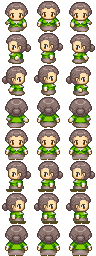
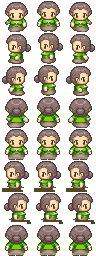
IMP: Refresh NPC art, item art, chat focus and quest panel
- NPCs: seated right-facing frames for rilla and rowan, legs and head turned
- Badge icons: all nine replaced with game-icons.net glyphs on the dark chip
- Item art: one 64px icon per catalog item; Inventory/items.ts mirrors the
  game catalog's stats and feeds tooltips through statsText
- Chat: input focus moved to an effect keyed on the open NPC, since onMount
  runs at app start before any NPC is opened
- Quest tracker: 224px wide, 10px type, hairline progress bars
- Shop: detail line carries attack and the reroll range
- tests: inventory locale mock covers the keys the new import chain reads

Changed region(s): [[0.0, 0.625, 0.3438, 0.875], [0.6875, 0.625, 1.0, 0.875], [0.3438, 0.625, 0.6562, 0.875]]

diff --git a/play/src/front/Components/Inventory/items.ts b/play/src/front/Components/Inventory/items.ts
@@ -5,6 +5,9 @@ export interface ItemDef {
     /** Where the item sits on the character; materials have no slot. */
     slot?: EquipSlot;
     icon: string;
+    /** Gear only: attack contribution and reroll ceiling for Moss. */
+    attack?: number;
+    rollMax?: number;
     /** Consumed from the bag with a click instead of worn. */
     potion?: boolean;
 }
@@ -22,26 +25,45 @@ export const EQUIP_SLOTS: { slot: EquipSlot; icon: string }[] = [
 const ITEMS: Record<string, ItemDef> = {
     gold: { name: "Gold", icon: "item_gold" },
     coin: { name: "Gold", icon: "item_gold" },
-    sword: { name: "Iron sword", slot: "weapon", icon: "item_sword" },
-    iron_sword: { name: "Iron sword", slot: "weapon", icon: "item_sword" },
-    helmet: { name: "Iron helm", slot: "head", icon: "item_helmet" },
-    helm: { name: "Iron helm", slot: "head", icon: "item_helmet" },
-    armor: { name: "Chainmail", slot: "chest", icon: "item_armor" },
-    chainmail: { name: "Chainmail", slot: "chest", icon: "item_armor" },
-    boots: { name: "Leather boots", slot: "feet", icon: "item_boots" },
-    ring: { name: "Copper ring", slot: "ring", icon: "item_ring" },
-    gloves: { name: "Leather gloves", slot: "hands", icon: "item_gloves" },
+    // Catalog mirrors workadventure-game/src/items.ts — ids, names and stats must match.
+    rusty_sword: { name: "Rusty Sword", slot: "weapon", attack: 2, rollMax: 1, icon: "rusty_sword" },
+    iron_sword: { name: "Iron Sword", slot: "weapon", attack: 5, rollMax: 3, icon: "iron_sword" },
+    oak_staff: { name: "Oak Staff", slot: "weapon", attack: 4, rollMax: 2, icon: "oak_staff" },
+    leather_cap: { name: "Leather Cap", slot: "head", attack: 1, rollMax: 1, icon: "leather_cap" },
+    iron_helm: { name: "Iron Helm", slot: "head", attack: 3, rollMax: 2, icon: "iron_helm" },
+    cloth_robe: { name: "Cloth Robe", slot: "chest", attack: 2, rollMax: 1, icon: "cloth_robe" },
+    chainmail: { name: "Chainmail", slot: "chest", attack: 5, rollMax: 3, icon: "chainmail" },
+    work_gloves: { name: "Work Gloves", slot: "hands", attack: 1, rollMax: 1, icon: "work_gloves" },
+    boots: { name: "Trail Boots", slot: "feet", attack: 1, rollMax: 1, icon: "boots" },
+    copper_ring: { name: "Copper Ring", slot: "ring", attack: 1, rollMax: 1, icon: "copper_ring" },
+    flame_blade: { name: "Flame Blade", slot: "weapon", attack: 9, rollMax: 5, icon: "flame_blade" },
+    guardian_plate: { name: "Guardian Plate", slot: "chest", attack: 8, rollMax: 4, icon: "guardian_plate" },
+    lucky_charm: { name: "Lucky Charm", slot: "ring", attack: 4, rollMax: 3, icon: "lucky_charm" },
+    swift_flask: { name: "Swift Flask", icon: "swift_flask", potion: true },
+    fortune_tonic: { name: "Fortune Tonic", icon: "fortune_tonic", potion: true },
+    gold_draught: { name: "Gold Draught", icon: "gold_draught", potion: true },
+    // Legacy drop keys still in circulation from earlier batches.
+    sword: { name: "Iron sword", slot: "weapon", attack: 5, rollMax: 3, icon: "iron_sword" },
+    helmet: { name: "Iron helm", slot: "head", attack: 3, rollMax: 2, icon: "iron_helm" },
+    helm: { name: "Iron helm", slot: "head", attack: 3, rollMax: 2, icon: "iron_helm" },
+    armor: { name: "Chainmail", slot: "chest", attack: 5, rollMax: 3, icon: "chainmail" },
+    ring: { name: "Copper ring", slot: "ring", attack: 1, rollMax: 1, icon: "copper_ring" },
+    gloves: { name: "Leather gloves", slot: "hands", attack: 1, rollMax: 1, icon: "work_gloves" },
     potion: { name: "Health potion", icon: "item_potion", potion: true },
     health_potion: { name: "Health potion", icon: "item_potion", potion: true },
-    swift_flask: { name: "Swift Flask", icon: "item_potion", potion: true },
-    fortune_tonic: { name: "Fortune Tonic", icon: "item_potion", potion: true },
-    gold_draught: { name: "Gold Draught", icon: "item_potion", potion: true },
     gem: { name: "Blue gem", icon: "item_gem" },
     crystal: { name: "Blue gem", icon: "item_gem" },
     goo: { name: "Slime goo", icon: "item_goo" },
     slime: { name: "Slime goo", icon: "item_goo" },
     slime_gel: { name: "Slime goo", icon: "item_goo" },
 };
+
+/** Tooltip line: "Iron Sword — ATK 5, bonus +0-3". */
+export function statsText(def: ItemDef): string {
+    if (def.attack === undefined) return def.name;
+    const bonus = def.rollMax !== undefined ? `, bonus +0-${def.rollMax}` : "";
+    return `${def.name} — ATK ${def.attack}${bonus}`;
+}
 
 function prettify(key: string): string {
     const words = key.replace(/[_-]+/g, " ").trim();

diff --git a/play/src/front/Components/GamePanel/GamePanel.svelte b/play/src/front/Components/GamePanel/GamePanel.svelte
@@ -28,10 +28,10 @@
 
 <div
     data-testid="game-panel"
-    class="pointer-events-auto fixed right-3 top-24 z-[250] w-[252px] max-w-[86vw] rounded-md border border-white/15 bg-contrast/95 text-white shadow-[0_0_0_1px_rgba(0,0,0,.45),0_10px_30px_rgba(0,0,0,.5)] backdrop-blur-md"
+    class="pointer-events-auto fixed right-3 top-24 z-[250] w-[224px] max-w-[86vw] rounded-md border border-white/15 bg-contrast/95 text-white shadow-[0_0_0_1px_rgba(0,0,0,.45),0_10px_30px_rgba(0,0,0,.5)] backdrop-blur-md"
 >
     <header
-        class="flex items-center gap-2 bg-black/25 px-3 py-2 {expanded
+        class="flex items-center gap-1.5 bg-black/25 px-2 py-1 {expanded
             ? 'rounded-t-md border-b border-white/10'
             : 'rounded-md'}"
     >
@@ -39,7 +39,7 @@
             <!-- Icon markup comes from the fixed npcRoleIcons table, never from user input. -->
             {@html npcRoleIconHtml("quill")}<!-- eslint-disable-line svelte/no-at-html-tags -->
         </span>
-        <span class="flex-1 truncate font-mono text-xs font-bold uppercase tracking-widest text-pop-yellow"
+        <span class="flex-1 truncate font-mono text-[10px] font-bold uppercase tracking-widest text-pop-yellow"
             >{$LL.gamePanel.title()}</span
         >
         <button
@@ -53,7 +53,7 @@
     </header>
 
     {#if expanded}
-        <div class="max-h-[60vh] overflow-y-auto p-2 no-scroll-bar">
+        <div class="max-h-[50vh] overflow-y-auto p-1.5 no-scroll-bar">
             {#if $questsStore.loading}
                 <p class="px-1 py-2 text-xs italic text-white/50">{$LL.gamePanel.loading()}</p>
             {:else if $questsStore.error}
@@ -63,28 +63,28 @@
             {:else}
                 {#each orderedQuests as quest (quest.assignmentId)}
                     <div
-                        class="mb-1.5 rounded-md border px-2 py-1.5 last:mb-0 {quest.status === 'completed'
+                        class="mb-1 rounded border px-1.5 py-1 leading-tight last:mb-0 {quest.status === 'completed'
                             ? 'border-emerald-400/40 bg-emerald-400/10'
                             : 'border-white/10 bg-white/5'}"
                     >
-                        <div class="flex items-center gap-2">
-                            <span class="flex-1 truncate text-[11px] font-medium">{quest.title}</span>
+                        <div class="flex items-center gap-1.5">
+                            <span class="flex-1 truncate text-[10px] font-medium">{quest.title}</span>
                             {#if quest.status === "completed"}
                                 <button
                                     type="button"
-                                    class="rounded border border-pop-yellow/60 bg-pop-yellow/20 px-1.5 py-0.5 font-mono text-[10px] font-bold text-pop-yellow hover:bg-pop-yellow/35"
+                                    class="rounded border border-pop-yellow/60 bg-pop-yellow/20 px-1 py-0.5 font-mono text-[9px] font-bold text-pop-yellow hover:bg-pop-yellow/35"
                                     onclick={() => claim(claimQuest(quest.assignmentId))}
                                 >
                                     {$LL.gamePanel.claim()}
                                 </button>
                             {:else}
-                                <span class="text-[10px] text-white/60"
+                                <span class="text-[9px] text-white/60"
                                     >{Math.min(quest.progress, quest.count)}/{quest.count}</span
                                 >
                             {/if}
                         </div>
                         {#if quest.status !== "completed"}
-                            <div class="mt-1 h-1 overflow-hidden rounded bg-white/10">
+                            <div class="mt-0.5 h-0.5 overflow-hidden rounded bg-white/10">
                                 <div
                                     class="h-full bg-gradient-to-r from-primary to-pop-yellow"
                                     style="width: {Math.min(100, (quest.progress / Math.max(1, quest.count)) * 100)}%"

diff --git a/play/src/front/Components/Inventory/Inventory.svelte b/play/src/front/Components/Inventory/Inventory.svelte
@@ -3,7 +3,7 @@
     import { equippedStore, equipItem, inventoryItemsStore, unequipSlot } from "../../Stores/InventoryStore";
     import { loadEquipment, refreshInventory, saveEquipment } from "../../Services/InventoryLoader";
     import { usePotion } from "../../Services/shop";
-    import { EQUIP_SLOTS, iconUrl, itemDef, type EquipSlot } from "./items";
+    import { EQUIP_SLOTS, iconUrl, itemDef, statsText, type EquipSlot } from "./items";
     import { IconRefresh, IconUser } from "@wa-icons";
 
     $effect(() => {
@@ -66,8 +66,8 @@
         {#if wornKey}
             <button
                 type="button"
-                title={itemDef(wornKey).name}
-                aria-label={itemDef(wornKey).name}
+                title={statsText(itemDef(wornKey))}
+                aria-label={statsText(itemDef(wornKey))}
                 data-testid="slot-{slot}"
                 class="flex h-11 w-11 items-center justify-center rounded-md border border-light-blue/60 bg-white/5 hover:border-danger-600/70"
                 onclick={() => onSlotClick(slot)}
@@ -114,7 +114,7 @@
                             type="button"
                             title={itemDef(entry.item).potion
                                 ? `${itemDef(entry.item).name} — ${$LL.shop.use()}`
-                                : itemDef(entry.item).name}
+                                : statsText(itemDef(entry.item))}
                             aria-label="{itemDef(entry.item).name} × {entry.qty}"
                             data-testid="bag-{entry.item}"
                             class="relative aspect-square rounded-sm border border-white/15 bg-contrast/70 transition-colors hover:border-light-blue/70"

diff --git a/play/src/front/Components/Inventory/items.test.ts b/play/src/front/Components/Inventory/items.test.ts
@@ -1,0 +1,47 @@
+import { describe, expect, it } from "vitest";
+import { iconUrl, itemDef, statsText } from "./items";
+
+// Mirrors workadventure-game/src/items.ts — ids the shop and drops actually use.
+const CATALOG_IDS = [
+    "rusty_sword",
+    "iron_sword",
+    "oak_staff",
+    "leather_cap",
+    "iron_helm",
+    "cloth_robe",
+    "chainmail",
+    "work_gloves",
+    "boots",
+    "copper_ring",
+    "flame_blade",
+    "guardian_plate",
+    "lucky_charm",
+    "swift_flask",
+    "fortune_tonic",
+    "gold_draught",
+];
+
+describe("itemDef", () => {
+    it("resolves every catalog id with stats and art", () => {
+        for (const id of CATALOG_IDS) {
+            const def = itemDef(id);
+            expect(def.name, id).not.toBe(id);
+            expect(iconUrl(def.icon)).toBe(`/static/images/items/${def.icon}.png`);
+            if (def.slot) {
+                expect(def.attack, id).toBeGreaterThan(0);
+                expect(def.rollMax, id).toBeGreaterThan(0);
+            } else {
+                expect(def.potion, id).toBe(true);
+            }
+        }
+    });
+
+    it("lists the attack and reroll bonus in the tooltip", () => {
+        expect(statsText(itemDef("iron_sword"))).toBe("Iron Sword — ATK 5, bonus +0-3");
+        expect(statsText(itemDef("gold_draught"))).toBe("Gold Draught");
+    });
+
+    it("falls back to a bag icon for unknown drop keys", () => {
+        expect(itemDef("mystery_item").icon).toBe("item_bag");
+    });
+});

diff --git a/play/src/front/Components/NpcChat/NpcChatPanel.svelte b/play/src/front/Components/NpcChat/NpcChatPanel.svelte
@@ -15,9 +15,20 @@
     let logElement: HTMLDivElement | undefined = $state();
     let inputElement: HTMLInputElement | undefined = $state();
 
-    onMount(() => {
-        playSfx("ding");
-        queueMicrotask(() => inputElement?.focus());
+    onMount(() => playSfx("ding"));
+
+    // The panel lives inside an {#if}, so onMount runs at app start, not when an NPC opens —
+    // focus from an effect keyed on the open NPC, and again shortly after, because the
+    // Phaser canvas can grab focus while the modal mounts.
+    $effect(() => {
+        if (!$npcChatStore.npc || !inputElement) return;
+        const el = inputElement;
+        const raf = requestAnimationFrame(() => el.focus({ preventScroll: true }));
+        const timer = window.setTimeout(() => el.focus({ preventScroll: true }), 150);
+        return () => {
+            cancelAnimationFrame(raf);
+            window.clearTimeout(timer);
+        };
     });
 
     // Both arguments are reactive reads: the effect re-runs when a message lands or a reply is pending.

diff --git a/play/tests/front/Components/Inventory/Inventory.svelte.test.ts b/play/tests/front/Components/Inventory/Inventory.svelte.test.ts
@@ -22,6 +22,10 @@ vi.mock("../../../../src/i18n/i18n-svelte", () => {
                 refresh: () => "Refresh inventory",
             },
         },
+        // Services/shop pulls adminFetch → gameManager → ScreenSharingStore, which
+        // reads this key while the module loads.
+        camera: { my: { nameTag: () => "Me" } },
+        shop: { use: () => "Use" },
     };
     return { default: readable(locale), locale: readable("en-US"), setLocale: () => undefined };
 });

diff --git a/play/src/front/Components/NpcChat/ShopPanel.svelte b/play/src/front/Components/NpcChat/ShopPanel.svelte
@@ -74,7 +74,8 @@
     function itemDetail(item: ShopItem | undefined): string {
         if (!item) return "";
         if (item.kind === "potion") return item.description;
-        return `${$LL.shop.attack()}: ${item.attack ?? 0}`;
+        const bonus = item.rollMax !== undefined ? ` · +0-${item.rollMax}` : "";
+        return `${$LL.shop.attack()}: ${item.attack ?? 0}${bonus}`;
     }
 
     // A successful action bursts the slot, pops the gold chip and plays its effect.

diff --git a/play/CLAUDE.md b/play/CLAUDE.md
@@ -59,6 +59,10 @@ Do not edit generated `src/i18n/i18n-*.ts` files directly.
   The profile menu's Inventory entry (`Components/Inventory/sidebar.ts`) opens a
   `GameWindow/FloatingWindow` instead (`inventoryOpenStore`; `openInventory()` also closes
   the NPC panels so two windows never stack).
+- Item art and stats: `Components/Inventory/items.ts` mirrors the game catalog (ids,
+  slots, `attack`, `rollMax`, `potion`) and its `statsText()` feeds the tooltips; the icons
+  are `public/static/images/items/<id>.png`, one per catalog item, drawn from game-icons.net
+  glyphs (CC BY 3.0) in the same two-tone style as the older `item_*` sprites.
 - The chat drawer's search field is always visible in its header; Cmd/Ctrl+K opens the user list
   and focuses it (`Components/searchShortcut.ts` decides the keystroke, `chatSearchFocusRequest`
   asks the header to take focus). The map script no longer registers its own search button.
@@ -75,7 +79,8 @@ Do not edit generated `src/i18n/i18n-*.ts` files directly.
   as native entities with the player-style `UsernameDisplay` badge whose availability dot is
   replaced by a 16px role icon (`Phaser/Components/npcRoleIcons.ts` — themed-color PNGs at
   `public/resources/icons/npc-<name>.png`, rendered as a plain `<img>`; each icon carries its
-  own palette, e.g. gold scroll, green leaf, teal flask). NPCs stand still — the middle
+  own palette, e.g. gold scroll, green leaf, teal flask). The glyphs are game-icons.net
+  artwork (github.com/game-icons/icons, CC BY 3.0) tinted onto a dark chip, 64×64. NPCs stand still — the middle
   frame of their direction row, never mid-stride; `pose: "sit"` (from the game service)
   selects the sit rows 4-7 that seated cast members' sheets carry — and `MonsterManager.loadTexture` reserves a unique
   key per URL load (a shared key once made every NPC render the first sprite). Badge icons
@@ -88,7 +93,9 @@ Do not edit generated `src/i18n/i18n-*.ts` files directly.
   The chat panel is a centered modal built on `NpcChat/RpgDialog.svelte` (pixel-JRPG theme:
   navy frame, pop-yellow accents, dimmed backdrop; the player's own lines are parchment
   bubbles) — not a drawer, not a chat-sidebar tab; i18n keys live under `npcChat`. The modal
-  is `w-[640px]` capped at `60dvh` with a `360px` floor, focuses its input on open, streams
+  is `w-[640px]` capped at `60dvh` with a `360px` floor, focuses its input on open (an
+  `$effect` keyed on the open NPC plus a 150ms refocus — the panel is inside an `{#if}`, so
+  `onMount` fires at app start, and Phaser can steal focus while it mounts), streams
   deltas live, and renders assistant messages as sanitized markdown (`NpcChat/markdown.ts` —
   marked + DOMPurify; `.npc-md` styles in the panel). Shop,
   leaderboard and inventory use `GameWindow/FloatingWindow` instead (centered card over a
@@ -116,6 +123,7 @@ Do not edit generated `src/i18n/i18n-*.ts` files directly.
   rendered by MainLayout directly and always visible — it has no close control, so there is
   no open/closed store and no action-bar entry. Collapsed it shows only the header bar
   (title + expand control); expanded it lists every quest as compact rows
+  (224px wide, 10px type, hairline progress bars)
   (`Services/quests.ts`, claim). Chrome matches the NPC panels
   (navy frame, mono pop-yellow header) with purple→gold gradient progress bars, gold CLAIM
   buttons and an emerald tint on ready quests; Esc on an expanded tracker collapses it.
